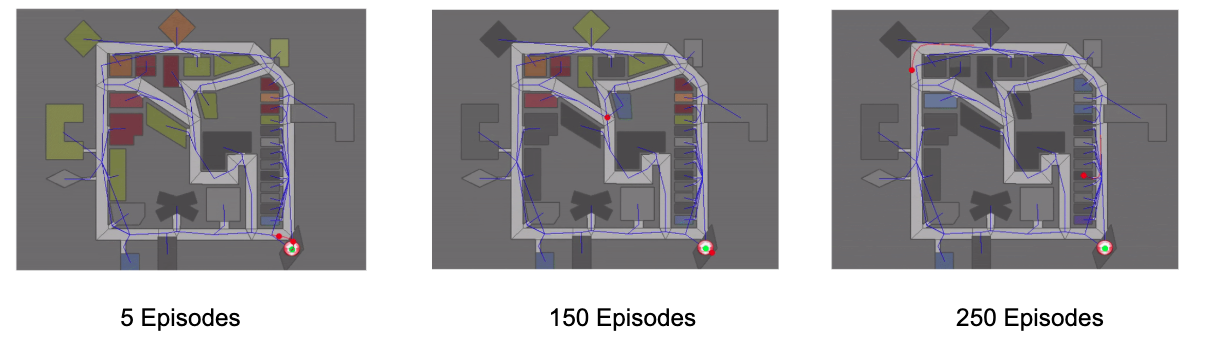
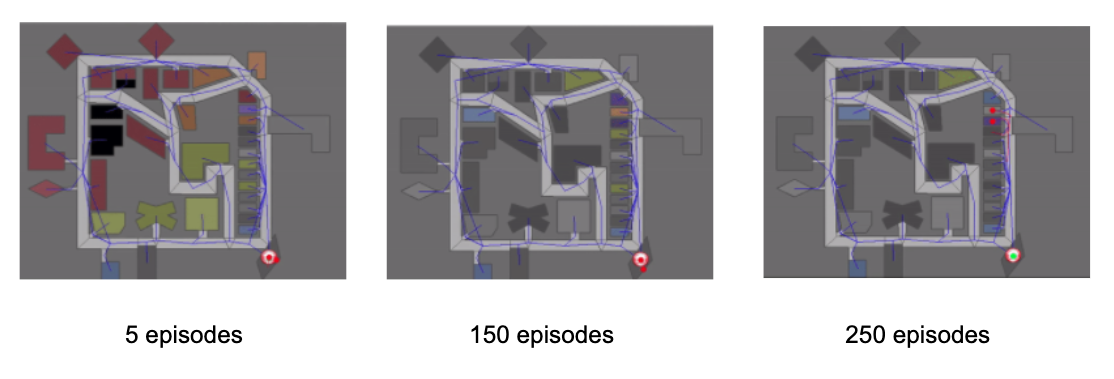
Section 4 done

diff --git a/thesis.tex b/thesis.tex
@@ -10,15 +10,51 @@
 \usepackage[document]{ragged2e}
 \usepackage{tabularx}
 \usepackage{amsmath}
-\usepackage{algorithm}
 \usepackage{algorithmic}
+\usepackage[ruled]{algorithm2e}
 \usepackage{ragged2e}
 \usepackage{fancyhdr}
 \usepackage{listings}
 \pagestyle{plain}
+\usepackage{algorithm}
+\usepackage{hyperref}
+\hypersetup{
+    colorlinks=true,
+    linkcolor=black,
+    filecolor=black,      
+    urlcolor=black,
+}
+
+\usepackage{xcolor}
+
+\definecolor{codegreen}{rgb}{0,0.6,0}
+\definecolor{codegray}{rgb}{0.5,0.5,0.5}
+\definecolor{codepurple}{rgb}{0.58,0,0.82}
+\definecolor{backcolour}{rgb}{0.95,0.95,0.92}
+
+\lstdefinestyle{mystyle}{
+    backgroundcolor=\color{backcolour},   
+    commentstyle=\color{codegreen},
+    keywordstyle=\color{magenta},
+    numberstyle=\tiny\color{codegray},
+    stringstyle=\color{codepurple},
+    basicstyle=\ttfamily\footnotesize,
+    breakatwhitespace=false,         
+    breaklines=true,                 
+    captionpos=b,                    
+    keepspaces=true,                 
+    numbers=left,                    
+    numbersep=5pt,                  
+    showspaces=false,                
+    showstringspaces=false,
+    showtabs=false,                  
+    tabsize=2
+}
+
+\lstset{style=mystyle}
 
 \mastersthesis                     
-\doublespace                   
+\onehalfspacing                   
 
 \renewcommand{\thesisauthor}{Animesh Goyal}    %% Your official UT name.
 
@@ -343,7 +379,7 @@ In order to train the agents, we have taken help of Open AI's Gym toolkit \cite{
 
 \begin{figure}[!h]
     \centering
-    \includegraphics[width=12cm]{23}
+    \includegraphics[width=15cm]{23}
     \caption{The neural network takes in state information and the reward collected at every timestep from the environment. State information contains (X,Y) coordinates, water level, health of the all the agents and temperature, fieryness of the buildings present. The neural network processes this information and outputs a building ID where the fire brigade needs to move next}
     \label{fig:23}
 \end{figure}
@@ -536,13 +572,14 @@ We use DQN and PPO architecture with a few modifications. We do not have the set
 
 \chapter{RCRS Gym Environment: Setup, Experiments, Analysis}
 
-In order to implement the model introduced in Chapter 3 and prove its concepts, an OpenAI gym environment \cite{brockman2016openai} was created that allowed developing agents which are capable of extinguishing fire in the city. 
+In order to device the model presented in Chapter 3 and prove its concepts, an OpenAI gym environment \cite{brockman2016openai} was created that allowed developing agents which are capable of extinguishing fire in the city. 
 
 OpenAI is a framework that defines a standard structure that a DRL agent can be built with, that makes the structure of the agent easy to recognize by any developer and makes the agent compatible with any environment. 
 
 Since OpenAI is built on Python, it can be easily connected with state-of-art DRL framework such as Tensorflow \cite{Abadi} with gym agents and use DRL techniques that use those frameworks provide. There are certain example algorithms available in OpenAI gym which simplifies the testing on a new environment. 
 
-The proposed design is presented in Figure ~\ref{fig:OpenAIgymRCRS}. Section 4.1 elaborates about the setup that was created to adapt RCRS to allow the training of DRL agents. In Section ~\ref{Experiments}, experiments will be detailed and in Section ~\ref{Analysis}, results will be analyzed. 
+
+The conceptual model of RCRS gym environment is presented in Figure ~\ref{fig:OpenAIgymRCRS}. Section 4.1 elaborates about the setup that was created to adapt RCRS to allow the training of DRL agents. In Section ~\ref{Experiments}, experiments that were carried out will be detailed and in Section ~\ref{Analysis}, results will be analyzed. 
 
 \begin{figure}[!h]
     \centering
@@ -553,11 +590,11 @@ The proposed design is presented in Figure ~\ref{fig:OpenAIgymRCRS}. Section 4.1
 
 \section{Setup} \label{Setup}
 
-This section will deal with the process of building the environment and the logic behind the decision making process of RCRS. 
+This section will deal with the process of building the environment and the logic behind the decisions that are made. 
 
 Section ~\ref{RCRSEnvironment} will describe the goal of the agent, what tasks will it perform after training, introduction to various maps and the complexity of the environment. 
 
-Section ~\ref{OpenAIGym} will elaborate about gym framework and why it was chosen.
+Section ~\ref{OpenAIGym} will elaborate about gym framework and why it was selected.
 
 RCRS is written in Java and OpenAI gym in Python. There has to be a communication channel by which these two languages can communicate in order to send messages. Section ~\ref{CommunicationJavaPython} will discuss about how the communication between Java and Python was established. 
 
@@ -609,52 +646,157 @@ In order to test the algorithms, two maps were chosen. A "Small" map having fewe
 
 \subsection{OpenAI Gym} \label{OpenAIGym}
 
-OpenAI Gym defines a standard architecture that a reinforcement learning agent and the environment should have. Having a defined interface helps compare performance of different reinforcement learning algorithms in the same environment. 
+Having a standard architecture where a reinforcement learning agent can be developed will be really helpful and this is what OpenAI gym provides. This standard architecture helps compare performance of different reinforcement learning algorithms in the same environment. 
 
-OpenAI Gym maintains a repository, stable baselines \cite{stable-baselines}, having examples of implementations of state-of-art DRL methods. These implementations can be used to validate the environment. The defined gym interface is made of two methods that the agent will use to interact with the environment:
+OpenAI Gym maintains a repository known as \emph{baselines} \cite{baselines}, which has examples of implementations of state-of-art DRL methods. But baselines have certain drawbacks that \emph{stable baselines} tried to rectify like having a unified structure for all the algorithms, well documented functions and classes and PEP8 compliant. Hence we decided to go with stable baselines \cite{stable-baselines}. 
+
+These implementations can be used to validate the environment. The defined gym interface is made of two methods that the agent will use to interact with the environment:
 
 \begin{itemize}
     \item \emph{reset}: This function is used to reset the environment to its initial state and returns the initial observation. It is called whenever a new episode is started. 
     \item \emph{step}: This function receives the action that the agent wishes to use in order to interact with the environment as the argument and returns the observation, reward, done and info. 
     \begin{itemize}
-        \item \emph{observation}: State of the environment
-        \item \emph{reward}: Reward collected after the episode
+        \item \emph{observation}: Current state information
+        \item \emph{reward}: Reward collected after the end of every episode
         \item \emph{done}: returns true if episode is over
-        \item\emph{info}: (optional) information value
+        \item\emph{info}: (optional) extra information that needs to be printed
     \end{itemize}
 \end{itemize}
 
 In addition to the above attributes, "action space" and "observation space" should be defined in order to abstract the environment to generic code. 
 
+Apart from the above mentioned functions, there are two more important attributes that need to be defined. 
+
 \begin{itemize}
-    \item \emph{action space}: The space of possible actions that will be used to generate the actions
-    \item \emph{observation space}: The space that defines the dimension of the environment's state
+    \item \emph{action space}: The space of possible actions that will be used to generate the actions. Possible values are 
+    \begin{itemize}
+        \item \emph{Discrete:} A list of possible actions where each timestep only one of the action can be used
+        \item \emph{MultiDiscrete:} A list of possible actions where each timestep only one action of each discrete set can be used
+        \item \emph{Box:} A N-dimensional box which contains every point in the action space
+        \item \emph{MultiBinary:} A list of possible actions, where each timestep any of the actions can be used in any combination
+    \end{itemize}
+    
+    \item \emph{observation space}: The space that defines the dimension of the environment's state. Possible values are the same as listed for action space. 
 \end{itemize}
-
-
-
-
 
 \subsection{Communication between Java and Python} \label{CommunicationJavaPython}
 
+RCRS is written is Java whereas OpenAI gym is in Python. Since at every timestep, state values have to be sent to the OpenAI gym agent and action values have to be received back, a connection has to be established. This connection between Java classes and Python classes was built using Google's protocol buffers \footnote{\url{https://developers.google.com/protocol-buffers/}}  and gRPC \footnote{\url{https://grpc.io/}}. 
+
+Google's protocol buffers are extensible methods for serializing structures data like XML but is faster, smaller and simpler. They are independent of the programming language they are written in. In our case, protocol buffer's are used to generate methods in python and java so as to use the interpretation of both state space and action space. 
+
+Another important point to note down is that the original structuring of the RCRS code base, already had a server and a client connection which was done using socket programming. The server had all the information of the building state i.e. temperature and fieryness whereas client had the information of the agents i.e. (X,Y) coordinates, health points, water level and if the agent is idle or busy. Client was also the one that would receive the next action to be performed i.e. the next building id where the fire brigades should move to. Since RCRS would have to start first and act as a server to the Python agent, we had to build two servers, one that would send the building information and other that would send the agent information and take actions as well. The Python agent would act as client for these two servers. Listing ~\ref{lst:StateInfo} elaborates the protocol representation of the building information while Listing ~\ref{lst:AgentInfo} elaborates the protocol representation of the agent information. 
+
+\begin{lstlisting} [language=Java, label={lst:StateInfo}, caption=Protocol buffer representation of the Building Information] 
+message BuildingInfo {
+  int32 fieryness = 1;
+  double temperature = 2;
+  int32 building_id = 3;
+}
+\end{lstlisting}
+
+\begin{lstlisting} [language=Java, label={lst:AgentInfo}, caption=Protocol buffer representation of the Agent Information] 
+message AgentInfo {
+  int32 agent_id = 1;
+  double x = 2;
+  double y = 3; 
+  int32 water = 4;
+  int32 hp = 5; 
+  int32 idle = 6;
+}
+\end{lstlisting}
+
+gRPC is an open-source remote procedural call (RPC) framework that can run in any environment. Its ease of implementation and pluggable support for load balancing made it our first choice for serialization. 
+RPC server in our case is the gym environment whereas the fire brigade agents acts as RPC clients. Since everything is hidden in the RPC, RCRS (Java classes) will not need to know that it is interacting with the python agent. 
+
+The implementation part is detailed in Listing ~\ref{lst:gRPCBuilding} and Listing ~\ref{lst:gRPCAgent}. 
+
+\begin{lstlisting} [language=Java, label={lst:gRPCBuilding}, caption= gRPC Implementation for Building Info] 
+service RCRSGymService {
+  rpc getBuildingInfo (Empty) returns (BuildingInfo) {}
+}
+\end{lstlisting}
+
+\begin{lstlisting} [language=Java, label={lst:gRPCAgent}, caption= gRPC Implementation for Agent Info] 
+service RCRSGymService {
+  rpc getAgentInfo (ActionInfo) returns (AgentInfo) {}
+}
+\end{lstlisting}
+
 \subsection{RCRS-Gym Implementation} \label{RCRSGymImplementation}
+
+Lets elaborate on the two methods that were defined in Section ~\ref{OpenAIGym} and show how the agents act in the environment using OpenAI gym. 
+
+First, \emph{reset} function is called first and the working is explained in Algorithm ~\ref{alg:ResetAlgo}. By calling the \emph{reset} function, agent expects the initial state information. To obtain that, RCRS and gRPC server starts. Initial state is always the starting position of the fire brigades which can be pre-decided before running the simulations.
+
+After the simulation starts, gym agent sends a random action to the RCRS server using \emph{step} function which then acts in the environment and sends back the next state information, reward value and if the episode is done or not. An episode is done only after 100 timesteps for "Small" map and after 250 timesteps for "Large" map. The reason for selecting different timesteps for an episode to end was that official RCRS Competition is run for 250 timesteps for "Large" map. But for "Small" map, 250 timesteps was more than enough for all the fire brigades to extinguish the fire in all the buildings. Hence, we decided to reduce that time to 100 timesteps which was sufficient to see if the agents are actually learning or not. The algorithm for step function is mentioned in Algorithm 
+
+\begin{algorithm}[H]
+\SetAlgoLined
+\KwResult{Write here the result }
+ initialization\;
+ \While{While condition}{
+  instructions\;
+  \eIf{condition}{
+   instructions1\;
+   instructions2\;
+   }{
+   instructions3\;
+  }
+ }
+ \caption{\emph{Reset} implementation}
+ \label{alg:ResetAlgo}
+\end{algorithm}
+
+\begin{algorithm}[H]
+\SetAlgoLined
+\KwResult{Write here the result }
+ initialization\;
+ \While{While condition}{
+  instructions\;
+  \eIf{condition}{
+   instructions1\;
+   instructions2\;
+   }{
+   instructions3\;
+  }
+ }
+ \caption{\emph{Step} implementation}
+ \label{alg:StepAlgo}
+\end{algorithm}
 
 \section{Experiments} \label{Experiments}
 
-As mentioned in the Introduction section, we are comparing two maps having different number of buildings and fire brigades. The first map is having 37 buildings and 2 fire brigades. The results of running PPO, DQN is shown in the figure. 
+To start the testing and see if reinforcement learning can actually be applied to RCRS, we started with doing the experiments on the "Small" map. PPO and DQN algorithm were applied to the simulator and the results were compared with a greedy approach where the agents would always extinguish the building with highest fieryness value. 
+
+\subsection{Small Map Experiments}
+
+Simulations were run for 400 episodes (40,000 timesteps) and mean and standard deviation of the reward is calculated after every 5 episodes. Since greedy algorithm wasn't learning, it had a constant reward value of 6.33. DQN achieved a highest cumulative reward of 5.89 and PPO achieved a highest cumulative reward of 5.88. Figure ~\ref{fig:SmallMapResults} shows that both the algorithms were able to learn in the environment improving their cumulative rewards over time. However, DQN attained highest cumulative reward in less number of episodes than PPO showing that it is a more effective algorithm for "Small" map setting.  
+
+Figure ~\ref{fig:PPOLearningSmallMap} and Figure ~\ref{fig:DQNLearningSmallMap} show how the agents gets better at extinguishing fire over the episodes. After 5 episodes, both the algorithms were performing badly with most of the buildings are critically or totally burnt. After 150 episodes, agents started learning and fewer number of buildings were on fire. After 250 episodes, DQN was able to successfully figure out the buildings that caused the fire to spread throughout the map and able to extinguish fire in those buildings. PPO was performing better than how it was performing after 150 episodes, but still not as good as DQN. After 300 episodes, PPO was also able to successfully extinguish the critical buildings. For better visualization on how the agents performed over episodes, refer to the \href{https://github.com/animeshgoyal9/RoboCup_Rescue_Simulator_Gym_Integration} {GitHub page}. 
 
 \begin{figure}[!h]
     \centering
     \includegraphics[width=12cm]{29.png}
-    \caption{\textbf{Comparison of Results for Small Map}}
-    \label{fig:x}
+    \caption{Rewards per episode for PPO, DQN and Greedy algorithm in "Small" Map setting. Dark line represents the mean value for rewards while shaded region is the standard deviation}
+    \label{fig:SmallMapResults}
 \end{figure}
 
 \begin{figure}[!h]
     \centering
-    \includegraphics[width=16cm]{PPO.png}
-    \caption{\textbf{Comparison of Results for Small Map}}
-    \label{fig:x}
+    \includegraphics[width=14cm]{PPO.png}
+    \caption{PPO: Fire Brigades learning to extinguish fire over 250 episodes. After 5 episodes, there was hardly any learning with most of the buildings either critically or totally burnt. After 250 episodes, agents learnt the critical buildings that need to be extinguished}
+    \label{fig:PPOLearningSmallMap}
+\end{figure}
+
+\subsection{Big Map Experiments}
+
+
+\begin{figure}[!h]
+    \centering
+    \includegraphics[width=14cm]{DQN.png}
+    \caption{DQN: Fire Brigades learning to extinguish fire over 250 episodes}
+    \label{fig:DQNLearningSmallMap}
 \end{figure}
 
 \section{Analysis} \label{Analysis}
@@ -662,8 +804,8 @@ As mentioned in the Introduction section, we are comparing two maps having diffe
 \begin{figure}[!h]
     \centering
     \includegraphics[width=12cm]{30.png}
-    \caption{\textbf{Comparison of Results for Big Map}}
-    \label{fig:x}
+    \caption{Comparison of Results for Big Map}
+    \label{fig:DQNSmallMapLearningMaps}
 \end{figure}
 
 \chapter{Conclusion and Future Work}
@@ -677,8 +819,5 @@ As mentioned in the Introduction section, we are comparing two maps having diffe
 
 \bibliographystyle{plain}
 \bibliography{bibliography.bib}      
-
-\begin{thesisauthorvita}             
-\end{thesisauthorvita}               
 
 \end{document}                       %% Done.
